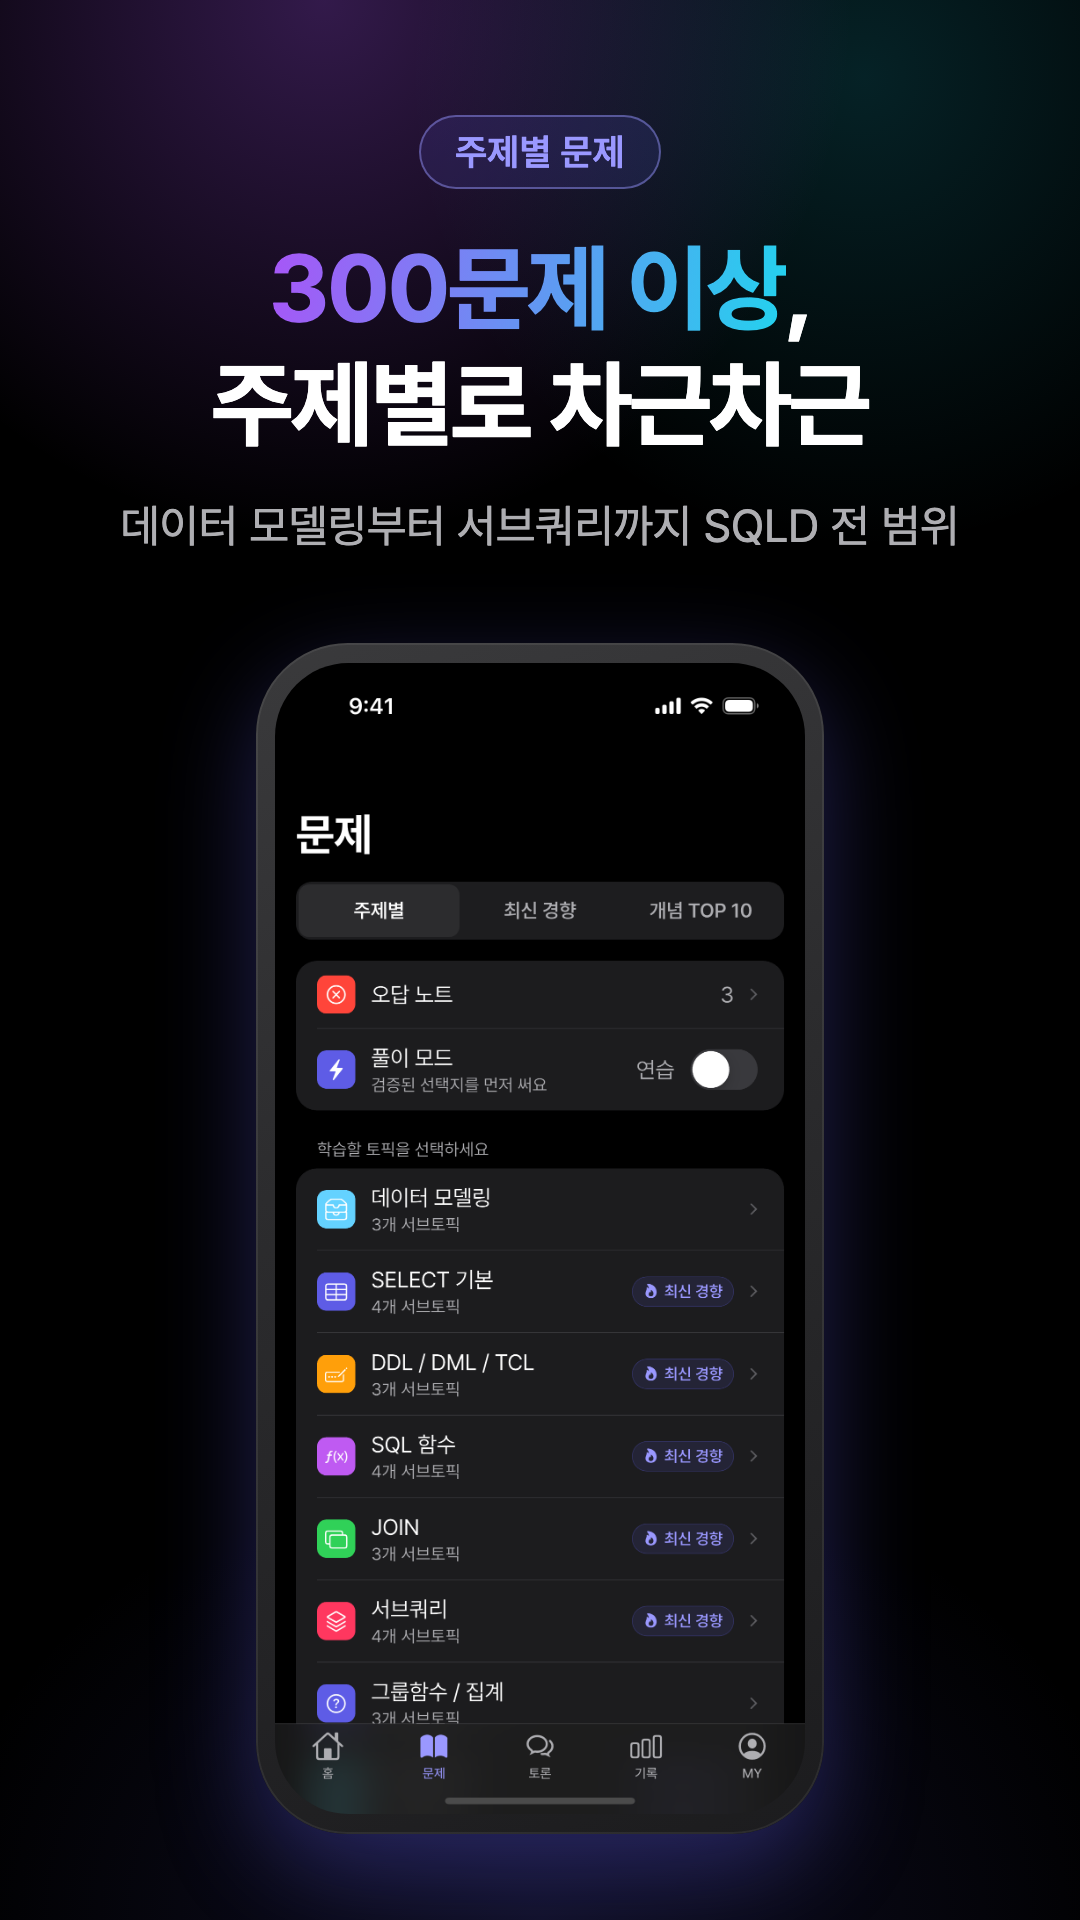
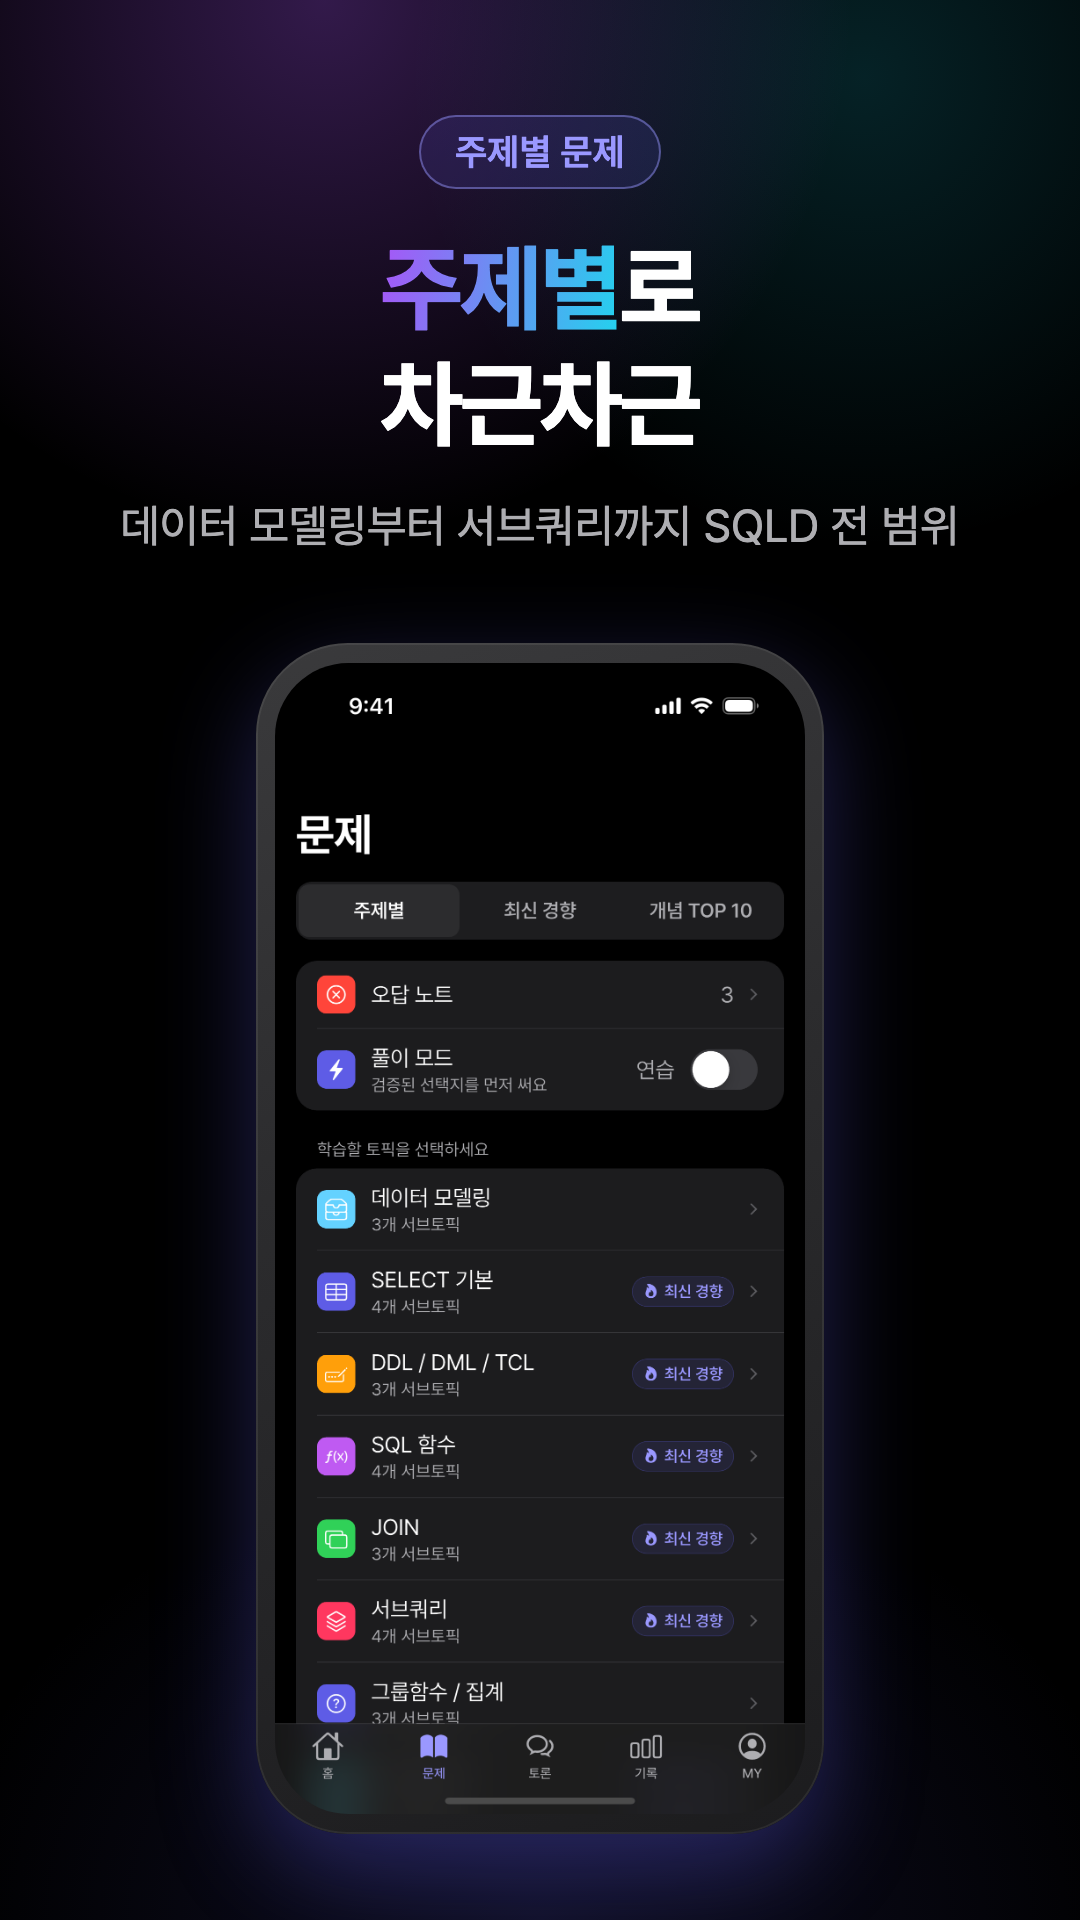
README·스토어 문구·홍보 이미지에서 문제 수(300문제 이상) 제거 : docs : README 한눈에 보기, 스토어 긴 설명(iOS·Play), 홍보 이미지 3번 장면 문구에서 문제 수를 빼고 이미지 4종 재생성 https://github.com/Twin-Fang/passQL/issues/636

Changed region(s): [[0.1833, 0.125, 0.7944, 0.25]]

diff --git a/app/docs/store/README.md b/app/docs/store/README.md
@@ -11,5 +11,5 @@
 
 - 원본 캡처 다시 찍기: `tool/store_shots/main_shots.dart` 빌드 > `/tmp/passql_shot_route.txt` 에 경로·연출(`execute-ok`, `ai-sheet` 등) > launch
 - 그래픽 이미지에 "Get it on Google Play" 배지·가격 문구를 넣지 않는다 (메타데이터 정책)
-- 문구 속 숫자(300문제 이상)는 운영 활성 문제 수 기준 — 문제 수가 바뀌면 함께 확인
+- 문구와 홍보 이미지에 문제 수(몇 문제 이상 등)를 쓰지 않는다 (사용자에게 문제량을 노출하지 않는 방침, #636)
 - 결제 스위치를 켜면 프로 전용 기능(출제 경향·통계 등)이 생기므로 설명 문구에 무료·프로 구분을 추가한다 (#576)

diff --git a/README.md b/README.md
@@ -45,7 +45,7 @@
 
 | | |
 |---|---|
-| **문제** | 300문제 이상, SQLD 출제 토픽 9개 <sub>(운영 DB 활성 문제 기준, 2026-10-20)</sub> |
+| **문제** | SQLD 출제 토픽 9개를 주제별로 정리, 실행형 문제와 개념 문제 |
 | **최신 경향** | 최근 회차 출제 유형을 분석해 문제에 반영, '최신 경향' 표시로 바로 골라 풀기 |
 | **검증** | 실행형 문제는 모든 선택지를 PostgreSQL 샌드박스에서 실제로 실행해 정답이 하나인지 확인 |
 | **플랫폼** | iOS · Android · Web, Google·Apple·카카오·네이버·GitHub 로그인 |
